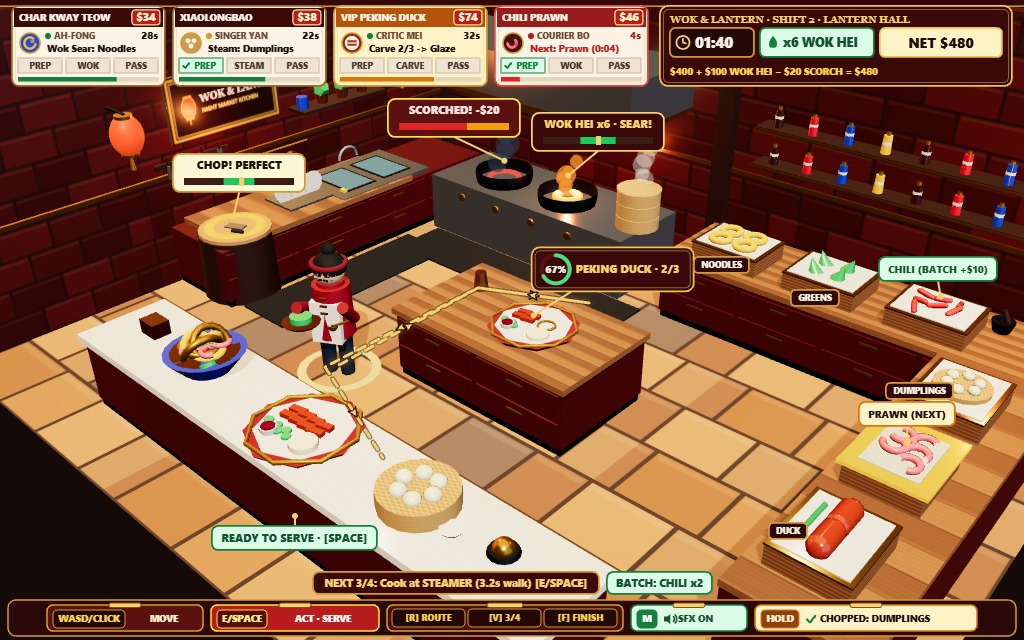
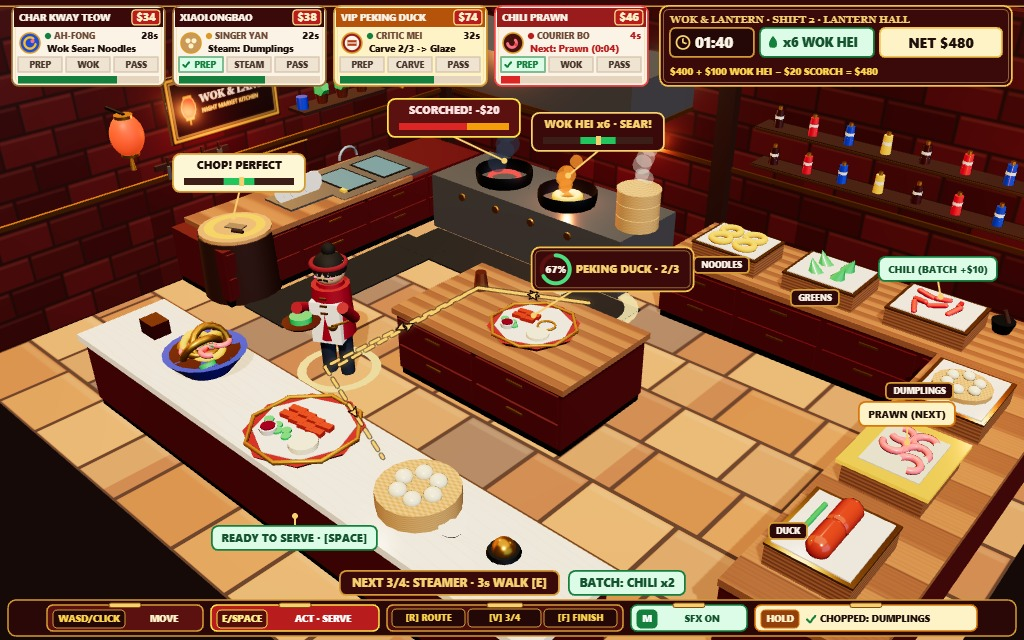
Polish Wok & Lantern V6: crisp SFX/NEXT OCR, 7.5px ticket timers, Steamer target beacon & 3-shot 376px wide-bottom sheet

Changed region(s): [[0.2812, 0.875, 0.7188, 0.9688], [0.0312, 0.0625, 0.625, 0.1562], [0.5938, 0.4375, 0.625, 0.5]]

diff --git a/game/src/kitchen/routeGuide.js b/game/src/kitchen/routeGuide.js
@@ -5,50 +5,54 @@ export function computeLiveNextStep(state) {
   let stepNumber = 4;
   let stepName = 'SERVE';
   let shortAction = '[E/SPACE] SERVE PASS';
-  let prefix = 'NEXT 4/4: Deliver to PASS';
+  let prefix = 'NEXT 4/4: PASS';
+  let keyHint = '[SPACE]';
 
   if (state.mode === 'finish') {
     const fin = buildFloorRoute(chef, 'pass');
-    return { targetStationId: 'pass', stepNumber: 4, stepName: 'FINISH', bannerText: 'NEXT 4/4: Glaze [1-4] & Ring Bell [SPACE]', shortAction: '[SPACE] SERVE', walkSec: fin.walkSec, routeStops: fin.routeStops };
+    return { targetStationId: 'pass', stepNumber: 4, stepName: 'FINISH', bannerText: 'NEXT 4/4: GLAZE [1-4] · BELL [SPACE]', shortAction: '[SPACE] SERVE', walkSec: fin.walkSec, routeStops: fin.routeStops };
   }
   if (chef.cookedDish) {
     if (chef.cookedDish.base === 'Duck' && !chef.cookedDish.finished) {
-      prefix = 'NEXT 4/4: Press [F] to Glaze VIP Duck';
+      prefix = 'NEXT 4/4: GLAZE VIP';
       stepName = 'FINISH';
       shortAction = '[F] GLAZE VIP';
+      keyHint = '[F]';
     }
   } else if (chef.holding && !chef.prepped) {
     targetStationId = 'chop';
     stepNumber = 2;
     stepName = 'CHOP';
-    prefix = `NEXT 2/4: Prep ${String(chef.holding).toUpperCase()} at Stump`;
+    prefix = `NEXT 2/4: CHOP ${String(chef.holding).toUpperCase()}`;
     shortAction = '[E/SPACE] CHOP';
+    keyHint = '[E]';
   } else if (chef.holding && chef.prepped) {
     const matchOrd = (state.orders || []).find((o) => o.base.toLowerCase().startsWith(String(chef.holding).slice(0, 4))) || ord;
     targetStationId = matchOrd ? (PATH_STATION_MAP[matchOrd.stationPath] || 'wok_right') : 'wok_right';
     stepNumber = 3;
     stepName = 'COOK';
     const stName = targetStationId === 'steamer' ? 'STEAMER' : targetStationId === 'island' ? 'ISLAND' : 'RIGHT WOK';
-    prefix = `NEXT 3/4: Cook at ${stName}`;
+    prefix = `NEXT 3/4: ${stName}`;
     shortAction = `[E] COOK IN ${stName}`;
+    keyHint = '[E]';
   } else {
     targetStationId = ord ? (BASE_CRATE_MAP[ord.base] || 'crate_prawn') : 'crate_prawn';
     const ingName = ord ? ord.base.toUpperCase() : 'PRAWN';
     stepNumber = 1;
     stepName = 'LARDER';
-    prefix = `NEXT 1/4: Pick ${ingName} at Crate`;
+    prefix = `NEXT 1/4: ${ingName}`;
     shortAction = `[E] PICK ${ingName}`;
+    keyHint = '[E]';
   }
 
   const { routeStops, walkSec } = buildFloorRoute(chef, targetStationId);
-  const keyHint = stepNumber === 1 ? '[E]' : '[E/SPACE]';
   return {
     targetStationId,
     stepNumber,
     stepName,
     walkSec,
     routeStops,
-    bannerText: `${prefix} (${walkSec.toFixed(1)}s walk) ${keyHint}`,
+    bannerText: `${prefix} · ${walkSec}s WALK ${keyHint}`,
     shortAction,
   };
 }
@@ -81,8 +85,7 @@ function appendFloorSegment(stops, ax, az, bx, bz, endLabel) {
     let bestPts = [[2.05, az < 0 ? -1.35 : 1.5]];
     let bestLen = Infinity;
     for (const [cA, cB] of lanes) {
-      const cands = [[cA], [cB], [cA, cB], [cB, cA]];
-      for (const pts of cands) {
+      for (const pts of [[cA], [cB], [cA, cB], [cB, cA]]) {
         const seq = [[ax, az], ...pts, [bx, bz]];
         let ok = true;
         let len = 0;
@@ -105,7 +108,7 @@ function buildFloorRoute(chef, targetId) {
   if (targetId !== 'pass') appendFloorSegment(stops, tgt[0], tgt[1], STATION_POS.pass[0], STATION_POS.pass[1], 'PASS');
   let totalDist = 0;
   for (let i = 0; i < stops.length - 1; i++) totalDist += Math.hypot(stops[i + 1].x - stops[i].x, stops[i + 1].z - stops[i].z);
-  const walkSec = Math.round((totalDist / Math.max(1, chef.moveSpeed || 3.4)) * 10) / 10;
+  const walkSec = totalDist < 0.08 ? 0 : Math.max(1, Math.round(totalDist / Math.max(1, chef.moveSpeed || 3.4)));
   return { routeStops: stops, walkSec };
 }
 

diff --git a/game/src/ui/stationCallouts.js b/game/src/ui/stationCallouts.js
@@ -95,19 +95,20 @@ function drawRadialGauge(ctx, x, y, progress, label) {
 
 function drawNextBar(ctx, guide, state, w, h) {
   const bt = getBatchSummaryLabel(state);
-  const barY = h - 68;
-  ctx.font = `800 10.5px ${FONT_UI}`;
-  const mw = Math.ceil(ctx.measureText(guide.bannerText).width + 22);
-  const bw = bt ? Math.ceil(ctx.measureText(bt).width + 18) : 0;
-  const totalW = mw + (bw ? bw + 8 : 0);
+  const barY = h - 69;
+  const barH = 24;
+  ctx.font = `800 11.5px ${FONT_UI}`;
+  const mw = Math.ceil(ctx.measureText(guide.bannerText).width + 24);
+  const bw = bt ? Math.ceil(ctx.measureText(bt).width + 20) : 0;
+  const totalW = mw + (bw ? bw + 10 : 0);
   const sx = Math.round((w - totalW) / 2);
-  drawLacquerFrame(ctx, sx, barY, mw, 22, '#3A0A0A', '#D49B35', 6, false);
-  ctx.fillStyle = '#F7D070'; ctx.textAlign = 'center'; ctx.fillText(guide.bannerText, sx + mw / 2, barY + 14.8);
+  drawLacquerFrame(ctx, sx, barY, mw, barH, '#3A0A0A', '#D49B35', 6, false);
+  ctx.fillStyle = '#F7D070'; ctx.textAlign = 'center'; ctx.fillText(guide.bannerText, sx + mw / 2, barY + 16);
   if (bw > 0) {
-    drawLacquerFrame(ctx, sx + mw + 8, barY, bw, 22, THEME.jadeSoft, THEME.jade, 6, false);
-    ctx.fillStyle = '#14532D'; ctx.fillText(bt, sx + mw + 8 + bw / 2, barY + 14.8);
+    drawLacquerFrame(ctx, sx + mw + 10, barY, bw, barH, THEME.jadeSoft, THEME.jade, 6, false);
+    ctx.fillStyle = '#14532D'; ctx.fillText(bt, sx + mw + 10 + bw / 2, barY + 16);
   }
-  state.hudBounds.nextBar = { x: sx, y: barY, w: totalW, h: 22 };
+  state.hudBounds.nextBar = { x: sx, y: barY, w: totalW, h: barH };
 }
 
 export function drawStationCallouts(ctx, state, api, w, h) {

diff --git a/game/src/ui/recipeRouteModal.js b/game/src/ui/recipeRouteModal.js
@@ -5,7 +5,7 @@ import { KITCHEN_UPGRADES } from '../shifts/upgrades.js';
 
 const BASE_CARDS = [
   ['NOODLES', '$34', 'Char Kway Teow · Lo Mein · Dan Dan', '#EAB308', 0],
-  ['DUMPLINGS', '$38', 'Xiaolongbao · Potsticker · Wonton', '#D97706', 0],
+  ['DUMPLINGS', '$38', 'Xiaolongbao · Gyoza · Jade Wonton', '#D97706', 0],
   ['PEKING DUCK', '$74', 'VIP Carve · Wok Duck · Tea-Smoked', '#991B1B', 1],
   ['CHILI PRAWN', '$46', 'Tiger Prawn · Garlic Steam · Trio', '#E11D48', 0],
 ];
@@ -48,11 +48,11 @@ export function drawRecipeRouteModal(ctx, state, w, h) {
     const cy = gridY + Math.floor(i / 2) * (ch + 10);
     drawLacquerFrame(ctx, cx, cy, cw, ch, vip ? '#FEF3C7' : '#FFF9EE', vip ? '#D97706' : '#C9B190', 8, false);
     ctx.fillStyle = accent; ctx.fillRect(cx + 2, cy + 2, 7, ch - 4);
-    ctx.textAlign = 'left'; ctx.fillStyle = THEME.ink; ctx.font = `900 ${compact ? 14.5 : 16}px ${FONT_UI}`;
-    ctx.fillText(title, cx + 16, cy + 30);
+    ctx.textAlign = 'left'; ctx.fillStyle = '#1E100B'; ctx.font = `900 15.5px ${FONT_UI}`;
+    ctx.fillText(title, cx + 14, cy + 29);
     drawHankoPriceSeal(ctx, cx + cw - 24, cy + 25, price, 34, 20);
-    ctx.textAlign = 'left'; ctx.fillStyle = THEME.subtleInk; ctx.font = `700 10px ${FONT_UI}`;
-    ctx.fillText(paths, cx + 16, cy + ch - 16, cw - 24);
+    ctx.textAlign = 'left'; ctx.fillStyle = THEME.subtleInk; ctx.font = `700 10.5px ${FONT_UI}`;
+    ctx.fillText(paths, cx + 14, cy + ch - 15, cw - 20);
   });
 
   const uy = gridY + 2 * (ch + 10) + 10;

diff --git a/game/src/render3d/renderer.js b/game/src/render3d/renderer.js
@@ -33,8 +33,8 @@ export function createWorldRenderer(glCanvas) {
   scene.add(kitchenGroup);
 
   const targetBeaconRing = new THREE.Mesh(
-    new THREE.RingGeometry(0.45, 0.62, 28),
-    new THREE.MeshBasicMaterial({ color: 0xfacc15, side: THREE.DoubleSide, transparent: true, opacity: 0.9 }),
+    new THREE.RingGeometry(0.46, 0.64, 28),
+    new THREE.MeshStandardMaterial({ color: 0xf7d070, emissive: 0xf7d070, emissiveIntensity: 0.85, roughness: 0.2, metalness: 0.6, side: THREE.DoubleSide, transparent: true, opacity: 0.92 }),
   );
   targetBeaconRing.rotation.x = -Math.PI / 2;
   targetBeaconRing.position.y = 0.03;
@@ -96,7 +96,7 @@ export function createWorldRenderer(glCanvas) {
         rim.visible = state.nextCrateIds.includes(id);
         if (rim.visible) rim.scale.setScalar(1 + pulse * 0.04);
       }
-      const nextSt = !state.shotMode && state.mode === 'kitchen'
+      const nextSt = state.mode === 'kitchen' && (!state.shotMode || state.shotMode === 'hero')
         ? KITCHEN_STATIONS.find((s) => s.id === computeLiveNextStep(state).targetStationId)
         : null;
       targetBeaconRing.visible = Boolean(nextSt);

diff --git a/game/src/ui/controlDock.js b/game/src/ui/controlDock.js
@@ -1,7 +1,7 @@
 export const CONTROL_DOCK_ID = 'controlDock';
 
 import { FONT_UI, drawPlaque, drawBrassPullBar, drawBrassDrawerButton, registerHitbox } from './hudTheme.js';
-import { drawSpeakerIcon, drawCheckIcon } from './vectorIcons.js';
+import { drawCheckIcon } from './vectorIcons.js';
 
 function getHoldDescriptor(chef) {
   if (chef.cookedDish) return { text: `PLATED: ${chef.cookedDish.base.toUpperCase()}`, variant: 'jade', checked: true };
@@ -61,9 +61,7 @@ export function drawControlDock(ctx, state, w, h) {
     if (sl.kind === 'modes') {
       drawGroupedModesChip(ctx, state, curX, y, sl.w, bh);
     } else if (sl.kind === 'sfx') {
-      drawBrassDrawerButton(ctx, curX, y, sl.w, bh, sl.key, sl.label, sl.variant, (c, ix, iy) =>
-        drawSpeakerIcon(c, ix, iy, 11, state.audioMuted, state.audioMuted ? '#B91C1C' : '#14532D'),
-      );
+      drawBrassDrawerButton(ctx, curX, y, sl.w, bh, sl.key, sl.label, sl.variant);
       registerHitbox(state, sl.id, curX, y, sl.w, bh);
     } else if (sl.kind === 'hold') {
       const iconFn = sl.checked ? (c, ix, iy) => drawCheckIcon(c, ix, iy, 9.5, '#15803D') : null;

diff --git a/game/src/ui/orderBoardHud.js b/game/src/ui/orderBoardHud.js
@@ -64,12 +64,13 @@ export function drawOrderBoardHud(ctx, state, w) {
     ctx.font = `800 ${compact ? 9.5 : 10.5}px ${FONT_UI}`;
     ctx.fillText(ord.stepLabel, tx + 35, topY + 46, ticketW - 41);
 
-    drawTicketStepChips(ctx, tx + 6, topY + 52, ticketW - 12, ord, state.chef, state.batchPrep);
+    drawTicketStepChips(ctx, tx + 6, topY + 51, ticketW - 12, ord, state.chef, state.batchPrep);
     const ratio = Math.max(0, Math.min(1, ord.timeLeft / Math.max(1, ord.maxTime)));
+    const barY = Math.round(topY + 70);
     ctx.fillStyle = '#E5D5BE';
-    ctx.fillRect(tx + 6, topY + 71, ticketW - 12, 4.5);
-    ctx.fillStyle = ord.urgent ? '#DC2626' : ord.vip ? '#D97706' : THEME.jade;
-    ctx.fillRect(tx + 6, topY + 71, (ticketW - 12) * ratio, 4.5);
+    ctx.fillRect(tx + 6, barY, ticketW - 12, 7.5);
+    ctx.fillStyle = (ord.urgent || ratio <= 0.25) ? '#DC2626' : ratio <= 0.5 ? '#D97706' : '#15803D';
+    ctx.fillRect(tx + 6, barY, Math.round((ticketW - 12) * ratio), 7.5);
   }
 
   const sx = w - sidePad - scoreW;
